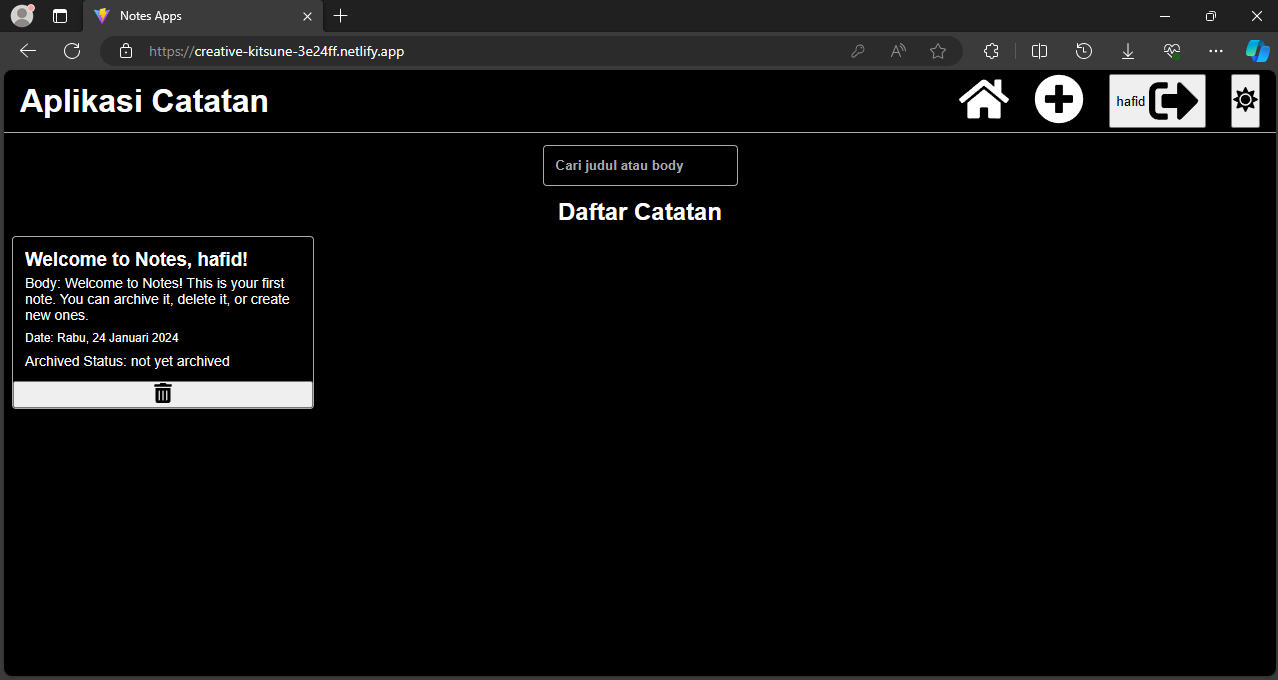
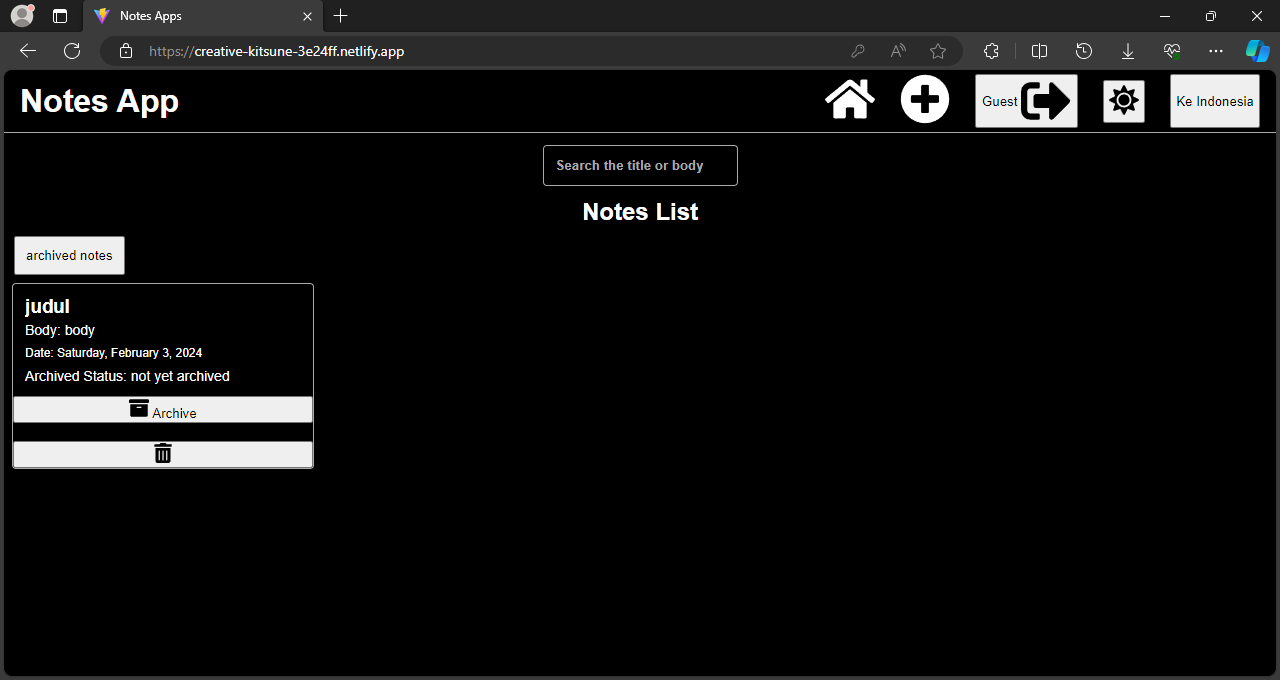
2language

diff --git a/js/data.js b/js/data.js
@@ -13,7 +13,7 @@ github: "https://github.com/hafidhuddien3/react-thread-app-240124"
 name: "Notes App React",
 address: "https://creative-kitsune-3e24ff.netlify.app/",
 image: "assets/images/image-react-notes.png",
-feature: "dark/light theme,hooks,guest account",
+feature: "dark/light theme,hooks,loading indicator,dual language,404 Pages",
 github: "https://github.com/hafidhuddien3/react-note-r3-030124"
 },
 
